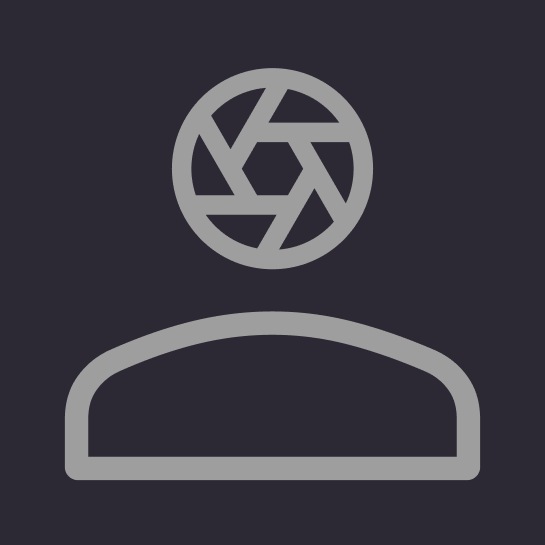
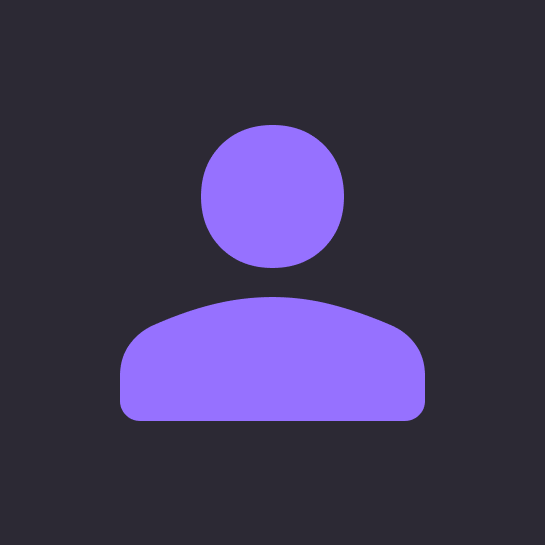
Fixed default image for imagepicker

Changed region(s): [[0.0936, 0.5303, 0.9046, 0.9046], [0.3119, 0.1248, 0.6862, 0.4991]]

diff --git a/screens/Profile/EditProfile.js b/screens/Profile/EditProfile.js
@@ -45,6 +45,7 @@ import { KeyboardAwareScrollView } from "react-native-keyboard-aware-scroll-view
 import DateTimePickerPopup from "../../components/DateTimePickerPopup/DateTimePickerPopup";
 import ProgressLoader from "rn-progress-loader";
 import ImagePicker from "../../components/ImagePicker";
+import defaultimage from "../../assets/images/defaultprofilepicture.png"
 
 var width = Dimensions.get("window").width; //full width
 var height = Dimensions.get("window").height; //full height
@@ -128,14 +129,10 @@ const EditProfile = ({ navigation, route }) => {
             height={width * 0.3}
             width={width * 0.3}
             setImg={setImage}
-            image={image}
+            image={Image.resolveAssetSource(defaultimage).uri}
           ></ImagePicker>
         </View>
       </KeyboardAwareScrollView>
-
-      {/* <SectionTitle>
-            <McText h5>FOR YOU</McText>
-          </SectionTitle>  */}
     </SafeAreaView>
   );
 };

diff --git a/components/ImagePicker.js b/components/ImagePicker.js
@@ -7,8 +7,8 @@ import { relativeTimeThreshold } from "moment";
 class ImagePickerComponent extends Component {
 
   constructor(props) {
-    console.log(props.img)
     super(props);
+    console.log(this.props.image)
     this.thisHeight = props.height ? props.height : SIZES.width*0.75;
     this.thisWidth = props.width ? props.width : SIZES.width*0.75;
     console.log("Image picker height is " + this.thisHeight + ". props.height is " + props.height)
@@ -16,6 +16,7 @@ class ImagePickerComponent extends Component {
     this.state = {
       image: this.props.image,
     };
+    console.log(this.state.image)
   }
 
   pickImage = async () => {
@@ -30,7 +31,7 @@ class ImagePickerComponent extends Component {
       quality: 100,
     });
 
-    console.log(result);
+    console.log("pick image result is " + result);
 
     if (!result.cancelled) {
       this.setState({ image: result.uri });

diff --git a/screens/Profile/Profile.js b/screens/Profile/Profile.js
@@ -26,6 +26,7 @@ import { useRoute } from "@react-navigation/native";
 import { Dimensions } from "react-native";
 import { AuthContext } from "../../AuthContext";
 import UsedServer from "../../constants/servercontants";
+import defaultimage from "../../assets/images/defaultprofilepicture.png"
 
 var width = Dimensions.get("window").width; //full width
 var height = Dimensions.get("window").height; //full height
@@ -409,7 +410,7 @@ const Profile = ({ navigation, route }) => {
               <Image
                 style={styles.userProfilePic}
                 source={{
-                  uri: data2.image,
+                  uri: data2.image ? data2.image : Image.resolveAssetSource(defaultimage).uri,
                 }}
               />
             </View>
